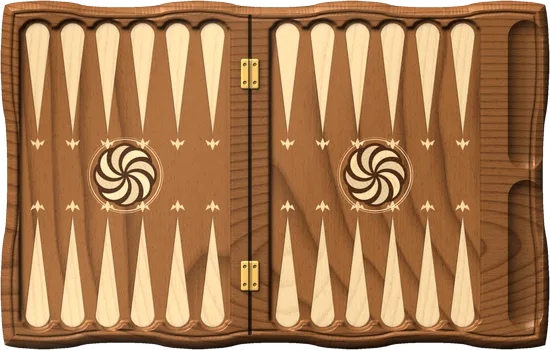
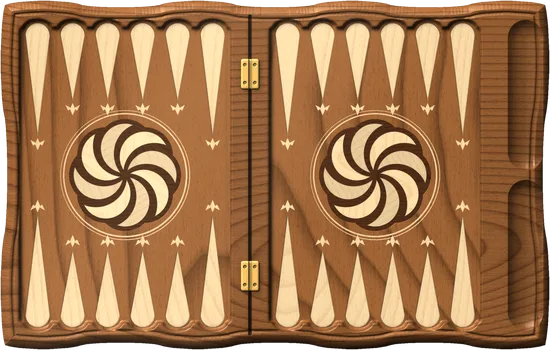
Доска «Аревахач»: короткие средние пункты и крупные аревахачи
- как на «Армении»: длинными оставлены только крайние пункты каждой шестёрки, лилии у кончиков сдвинуты вместе с ними
- аревахачи с инкрустированными кольцами увеличены в 1,75 раза

Claude-Session: https://claude.ai/code/session_013vq6NREHT7txoK1nXmxN83

Changed region(s): [[0.5564, 0.1429, 0.8036, 0.8571], [0.0927, 0.1143, 0.3709, 0.8571], [0.2782, 0.8571, 0.3091, 0.8857]]

diff --git a/index.html b/index.html
@@ -306,7 +306,7 @@ svg#board{position:absolute;inset:0;width:100%;height:100%;display:block}
 (()=>{
 'use strict';
 const $=id=>document.getElementById(id);
-const APP_VERSION='12';   // совпадает с VERSION в sw.js; добавляется к адресам картинок, чтобы новые доски не брались из старого кэша
+const APP_VERSION='13';   // совпадает с VERSION в sw.js; добавляется к адресам картинок, чтобы новые доски не брались из старого кэша
 const NS='http://www.w3.org/2000/svg';
 const f2=v=>(+v).toFixed(1);
 

diff --git a/sw.js b/sw.js
@@ -1,5 +1,5 @@
 // Офлайн-кэш: страница, доски, звуки и шрифты кэшируются при установке.
-const V = '12';                 // = APP_VERSION в index.html
+const V = '13';                 // = APP_VERSION в index.html
 const VERSION = 'nardy-v' + V;
 const SHELL = [
   './',

diff --git a/tools/render_boards.py b/tools/render_boards.py
@@ -714,19 +714,21 @@ def board_ararat():
     rim = np.clip(ndi.gaussian_filter(fields, 4 * S) - fields, 0, 1)
     alb = alb * (1 - rim[..., None] * .35)
     # пункты-капли из бука
-    drops = [teardrop(ptX(i), is_top(i), 270 if is_top(i) else 430, 48) for i in range(24)]
+    # длинные только крайние пункты каждой шестёрки, средние короче — посередине место под крупный аревахач
+    tip_of = lambda i: (270 if is_top(i) else 430) if i % 6 in (0, 5) else (200 if is_top(i) else 500)
+    drops = [teardrop(ptX(i), is_top(i), tip_of(i), 48) for i in range(24)]
     dm = polys(drops)
     btex = wood(H, W, *BEECH, rings=30, seed=8, vertical=True, contrast=.32, fiber=.12, warp=1.4)
     alb = put(alb, dm, btex)
     edge = np.clip(ndi.gaussian_filter(dm, .9 * S) - ndi.gaussian_filter(dm, .25 * S), 0, 1) + np.clip(dm - ndi.grey_erosion(dm, size=3), 0, 1)
     alb = alb * (1 - np.clip(edge, 0, 1)[..., None] * .55)
     h -= dm * .6
-    fl = polys(sum([fleur(ptX(i), (276 if is_top(i) else 424), 1 if is_top(i) else -1) for i in range(24)], []))
+    fl = polys(sum([fleur(ptX(i), tip_of(i) + (6 if is_top(i) else -6), 1 if is_top(i) else -1) for i in range(24)], []))
     alb = put(alb, fl, btex)
     # аревахач — маркетри: тёмный орех и бук, вокруг тонкий инкрустированный круг
     for cx in (250, 750):
-        arevakhach_inlay(alb, h, cx, 350, 64, BEECH, ((.30, .16, .07), (.12, .06, .02)), cx)
-        for r0, r1 in ((72, 70.4), (75.5, 74.7)):
+        arevakhach_inlay(alb, h, cx, 350, 112, BEECH, ((.30, .16, .07), (.12, .06, .02)), cx)
+        for r0, r1 in ((124, 121.4), (129.5, 128.2)):
             ring = np.clip(circle(cx, 350, r0) - circle(cx, 350, r1), 0, 1)
             alb = put(alb, ring, btex)
             h -= ring * .3
